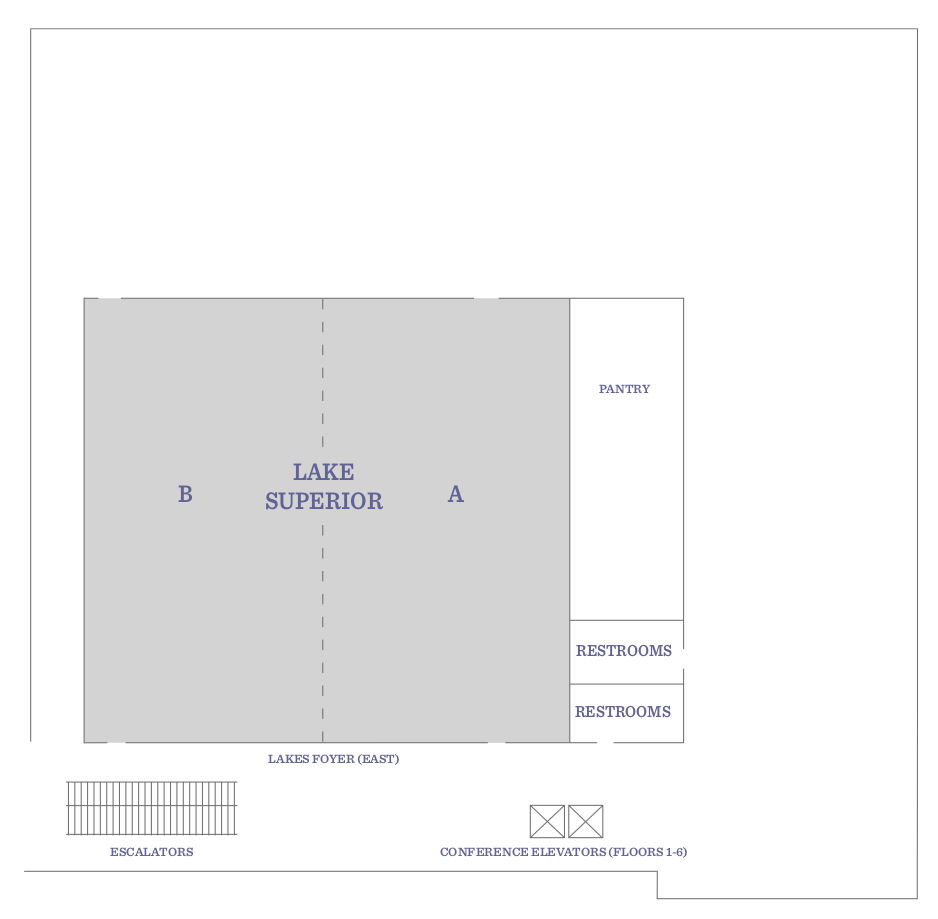
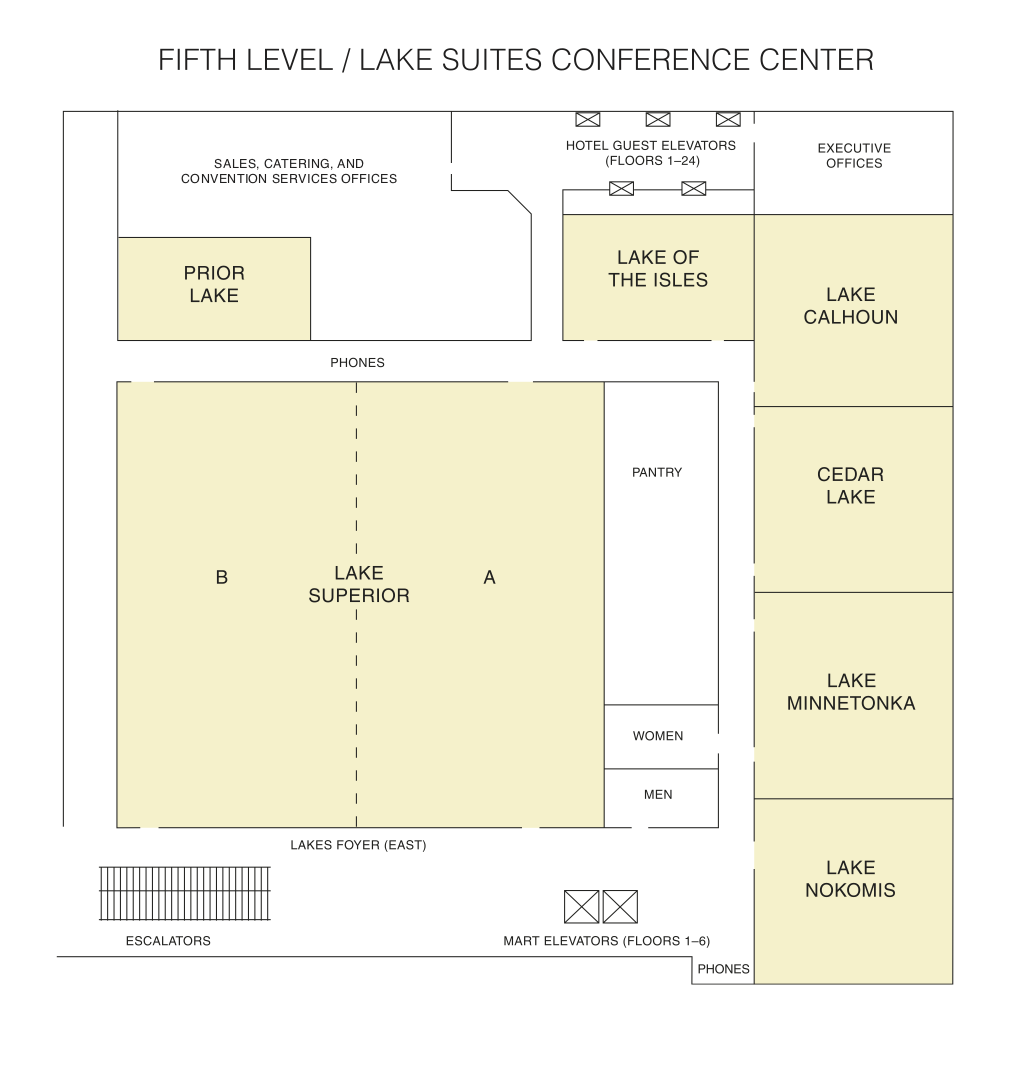
Update floormaps and readme.

diff --git a/README.md b/README.md
@@ -2,7 +2,44 @@
 
 This repsitory contains resources and scripts for the official Whova app for the 2019 Annual Conference of the North American Chapter of the Association for Computational Linguistics: Human Language Technologies (NAACL-HLT).
 
-## License
+# Populating the App
+
+(**Note**: For any questions, [contact](mailto:first initial then last name at gmail dot com)) Nitin Madnani, the conference app chair for NAACL 2019.)
+
+The following instructions are for the conference app chair who should be an admin on Whova EMS (Event Management System) for the corresponding conference event. The event itself is created by Whova folks (for NAACL 2019, this was Peter Howell from Whova) once the contract is signed and the payment has been made. The app chair is automatically given admin access assuming they are the one who negotiated communicated with Whova. Usually, they are also given admin access to the previous year's event to figure out how things were done the year before, which is quite helpful.
+
+## Basics
+
+The first thing to do is to fill out the Basics section under the "Event Content" tab of the Whova EMS. This is information like the the conference, name, dates, address of the venue, description, website address, twitter hashtag, etc. Some of this might be pre-populated by the Whova folks.
+
+## Sponsors
+
+Sponsors need to be added manually unlike GuideBook where they could be added as a custom list programmatically by using a zip file of images. To add a sponsor, go to the "Sponsor Banner" section under the "Event Content" tab and click on the "Add Sponsor" button. Fill out the information that is asked for in the pop-up and use the same logo that was used for the website. Although Whova has some logos that it offers up for the more famous companies, they might not be consistent or hi-res enough. **IMPORTANT**: make sure to click "No" for the "Show Banner" question since otherwise it would show ad banners while using the app which is quite intrusive. Click "Save" to save the information for this sponsor. Repeat this process for all other sponsors manually.
+
+## Floormaps
+
+Whova has a nice interface for adding floormaps. Go to the "Configure App" tab in the Whova EMS and click on "Floormap". Then click on "Set Up Floor Map" which will open a pop-up. You will need to obtain the actual floor maps for the venue from Priscilla which are usually PDF. For each floor, create an image of the floormap from the PDF and upload it. Next, manually add all of the rooms/locations for this floor by clicking on the "Add a Location/Booth Number" button at the bottom. For each location you added, click on the little map pin icon next to its name in the list that and then click on the corresponding location on the appropriate floor map to place a pin there.
+
+## Attendees
+
+Everything happens under the "Attendees" tab in the Whova EMS.
+
+For most events on Whova, a user needs to not only have a Whova account but that Whova account must explicitly be part of the attendees list for that event. In order for a user to become an attendee for an event, one of the following must be true:
+
+1. The email that they used to sign up for Whova must explicitly be on the pre-populated list of attendees if the app chair sets that up on the Whova EMS.
+2. They must know the secret access code for the event that only the app chair can see on the Whova EMS. 
+3. They request access to the event through the Whova app and their request is explicitly approved by the app chair via the Whova EMS.
+
+For NAACL 2019, we get the list of folks who have registered for the conference from Priscilla and pre-populate the list of attendees by clicking on the "Import Attendees" button. This will provide an Excel template that can be populated using the information from Priscilla and uploaded to Whova.
+
+**Notes**: 
+- Some users might use a different email for conference registration and a different one for Whova, so option (3) is also likely to be quite popular among such users. 
+- Option (2) is not very secure since users might make that access code public or share with other attendees who aren't registered for the conference. 
+- The app chair might also need to add an attendee manually by clicking on the "Add Attendee" button in certain situations where it's just easier to add one or two records manually rather than uploading a whole spreadsheet again.
+
+## Schedule
+
+# License
 
 Most of the content in this repository is under the MIT License _except_:
 
